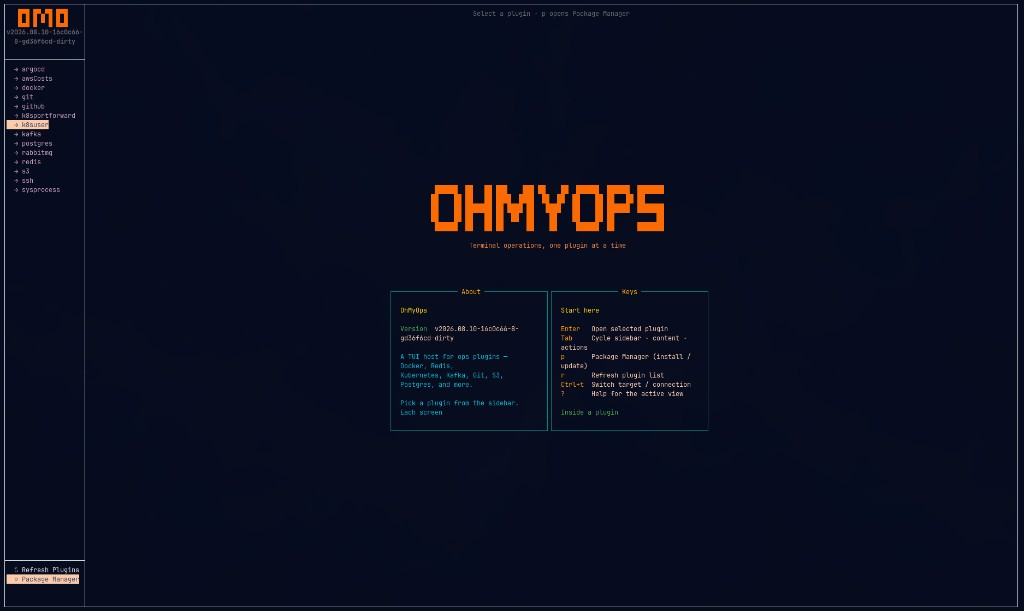
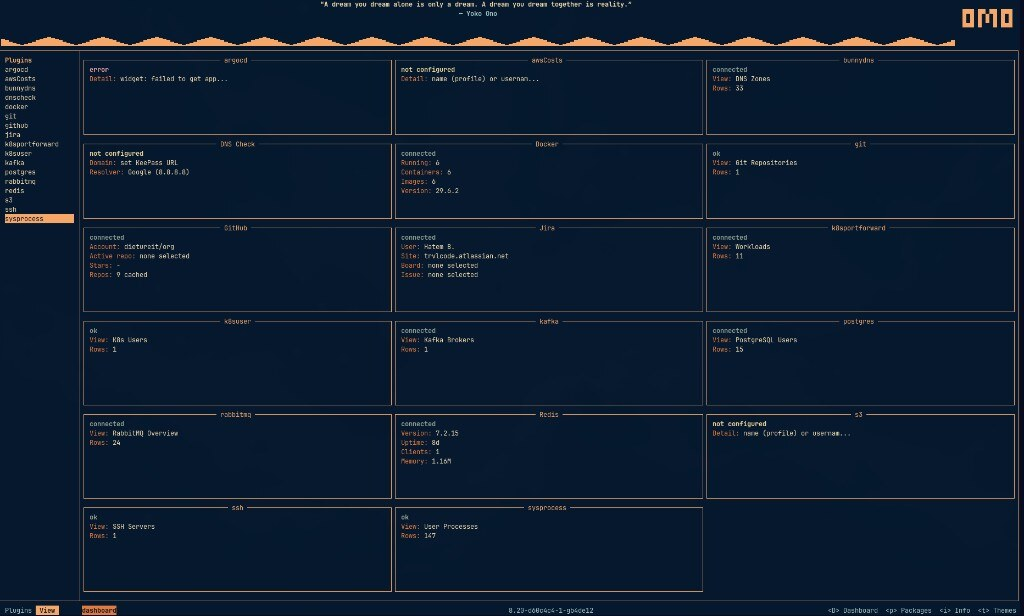
Refresh screenshots and install omo with a man page on Termux.
The one-liner now drops man omo beside the binary, detects Termux PREFIX without sudo, and ships omo.1 in release archives.

diff --git a/README.md b/README.md
@@ -37,11 +37,11 @@
 ---
 
 <p align="center">
-  <img src="assets/screenshots/tui-dashboard.jpg" alt="omo cover screen — plugin rail and OHMYOPS dashboard" width="880">
+  <img src="assets/screenshots/tui-dashboard.jpg" alt="omo dashboard — plugin rail and live plugin tiles" width="880">
 </p>
 
 <p align="center">
-  <sub>Plugin rail on the left. Active tool on the right. Keyboard shortcuts always visible.</sub>
+  <sub>Plugin rail on the left. Live tiles on the right. Keyboard shortcuts always visible.</sub>
 </p>
 
 ---
@@ -65,11 +65,12 @@ Built for SREs, platform engineers, and indie operators who live in the terminal
 
 ## Features
 
-- **15 official plugins** — Docker, Redis, Kafka, RabbitMQ, Postgres, SSH, Argo CD, Kubernetes users, Kubernetes port-forward, Bunny DNS, AWS Costs, S3, Git, GitHub, system processes
+- **Official plugins** — Docker, Redis, Kafka, RabbitMQ, Postgres, SSH, Argo CD, Kubernetes, Git, GitHub, S3, AWS Costs, Bunny DNS, DNS check, Jira, system processes
 - **KeePass-backed secrets** — auto-created on first launch; open with KeePassXC or `omo secrets`
-- **Package Manager** — sync the plugin index from GitHub and install/update plugins in-app
+- **Package Manager** — sync the plugin index from GitHub and install/update plugins in-app (`p`)
+- **Themes** — bundled palettes (Omo + Omarchy); press **`t`** with the plugins list focused
 - **Multi-target** — `Ctrl+t` switches instances (e.g. `redis/production/cache` ↔ `redis/staging/cache`)
-- **Keyboard-first** — Tab focus, filter (`/`), refresh (`R`), help (`?`); Tab stays inside open modals
+- **Keyboard-first** — Tab focus, filter (`/`), refresh (`R`), help (`?`), dashboard (`D`); Tab stays inside open modals
 - **Safe by design** — credentials stay local; plugins receive config via `Configure`, not nested secret RPC
 - **Cross-platform host** — Linux / macOS / Windows; plugins ship as standalone executables
 
@@ -83,7 +84,16 @@ Built for SREs, platform engineers, and indie operators who live in the terminal
 curl -fsSL https://raw.githubusercontent.com/hatembentayeb/omo/main/install.sh | bash
 ```
 
-Installs the latest release into `/usr/local/bin` (override with `OMO_INSTALL_DIR`) and creates `~/.omo/`.
+Installs the latest release into `/usr/local/bin` and `man omo` into `/usr/local/share/man/man1` (override with `OMO_INSTALL_DIR` / `OMO_MANDIR`) and creates `~/.omo/`.
+
+### Termux (Android)
+
+```bash
+pkg install curl tar man
+curl -fsSL https://raw.githubusercontent.com/hatembentayeb/omo/main/install.sh | bash
+```
+
+Detects Termux and installs into `$PREFIX/bin` and `$PREFIX/share/man/man1` (no sudo). Needs a 64-bit device (`aarch64` or `x86_64`).
 
 ### From GitHub Releases
 
@@ -122,11 +132,10 @@ On first run, omo:
 
 Inside omo:
 
-1. Focus the **plugins list** (left sidebar) and press **`p`**  
-   — or **Tab** to the host actions list and select **Package Manager**
+1. Focus the **plugins list** (left sidebar) and press **`p`**
 2. Press **`S`** to sync the plugin index
 3. Press **`A`** to install all plugins (or install selectively)
-4. Press **`Q`** to return
+4. Press **`Q`** or **Esc** to return
 
 ### 3. Add a connection
 
@@ -169,9 +178,9 @@ Select the plugin in the sidebar. Use `Ctrl+t` to pick the target, `?` for plugi
 No mockups — these are the same screens you run every day.
 
 <p align="center">
-  <img src="assets/screenshots/tui-dashboard.jpg" alt="omo cover screen with plugin rail, OHMYOPS logo, About and Keys panels" width="880">
+  <img src="assets/screenshots/tui-dashboard.jpg" alt="omo dashboard with plugin rail and live plugin tiles" width="880">
 </p>
-<p align="center"><sub><strong>Dashboard</strong> — plugin rail on the left, cover in the center. Pick a tool or open the Package Manager with <code>p</code>.</sub></p>
+<p align="center"><sub><strong>Dashboard</strong> — plugin rail on the left, live tiles on the right. Open with <code>D</code>.</sub></p>
 
 <p align="center">
   <img src="assets/screenshots/tui-packagemanager.jpg" alt="omo Package Manager listing installed plugins with versions, status, and tags" width="880">
@@ -184,19 +193,19 @@ No mockups — these are the same screens you run every day.
 <p align="center"><sub><strong>Docker</strong> — containers, images, networks, volumes, and compose — keyboard-first.</sub></p>
 
 <p align="center">
-  <img src="assets/screenshots/tui-docker-logs.jpg" alt="omo Docker logs view with line numbers, wrap, find, and autoscroll controls" width="880">
+  <img src="assets/screenshots/tui-redis.jpg" alt="omo Redis keys table with type, TTL, and size" width="880">
 </p>
-<p align="center"><sub><strong>Logs</strong> — shared in-place logs view — wrap, find, marks, and copy from any plugin.</sub></p>
+<p align="center"><sub><strong>Redis</strong> — keys, info, slowlog, clients, and pub/sub.</sub></p>
 
 <p align="center">
-  <img src="assets/screenshots/tui-k8s-portforward.jpg" alt="omo Kubernetes port-forward workloads table with namespace, ports, and forward status" width="880">
+  <img src="assets/screenshots/tui-ssh.jpg" alt="omo SSH Manager remote process table" width="880">
 </p>
-<p align="center"><sub><strong>Kubernetes</strong> — workloads, services, pods, and port-forwards against your cluster context.</sub></p>
+<p align="center"><sub><strong>SSH</strong> — remote processes, disk, network, Docker, and services.</sub></p>
 
 <p align="center">
-  <img src="assets/screenshots/tui-postgres.jpg" alt="omo PostgreSQL Manager users table with roles, privileges, and connection counts" width="880">
+  <img src="assets/screenshots/tui-sysprocess.jpg" alt="omo Process Monitor details view with ancestry" width="880">
 </p>
-<p align="center"><sub><strong>Postgres</strong> — users, databases, tables, and schemas in one keyboard-driven manager.</sub></p>
+<p align="center"><sub><strong>Process Monitor</strong> — local processes, ports, warnings, and why something is running.</sub></p>
 
 More on the site: [oh-myops.com](https://oh-myops.com/#screenshots).
 
@@ -322,8 +331,10 @@ Run `omo secrets` with no args for full help.
 | **↑ / ↓** | Move selection |
 | **Enter** | Activate |
 | **r** | Refresh plugins *(plugins list focused)* |
+| **D** | Dashboard *(plugins list focused)* |
 | **p** | Open Package Manager *(plugins list focused)* |
 | **i** | Open Settings / Info *(plugins list focused)* |
+| **t** | Themes *(plugins list focused)* |
 
 ### Inside a plugin
 
@@ -371,6 +382,7 @@ Plugin-specific actions are listed in `?` and in the actions column.
 ├── index.yaml           # remote plugin catalog (synced)
 ├── installed.yaml       # what you have installed
 ├── logs/                # omo.log + per-plugin logs
+├── theme                # saved TUI theme id
 └── plugins/
     ├── redis/redis
     ├── docker/docker
